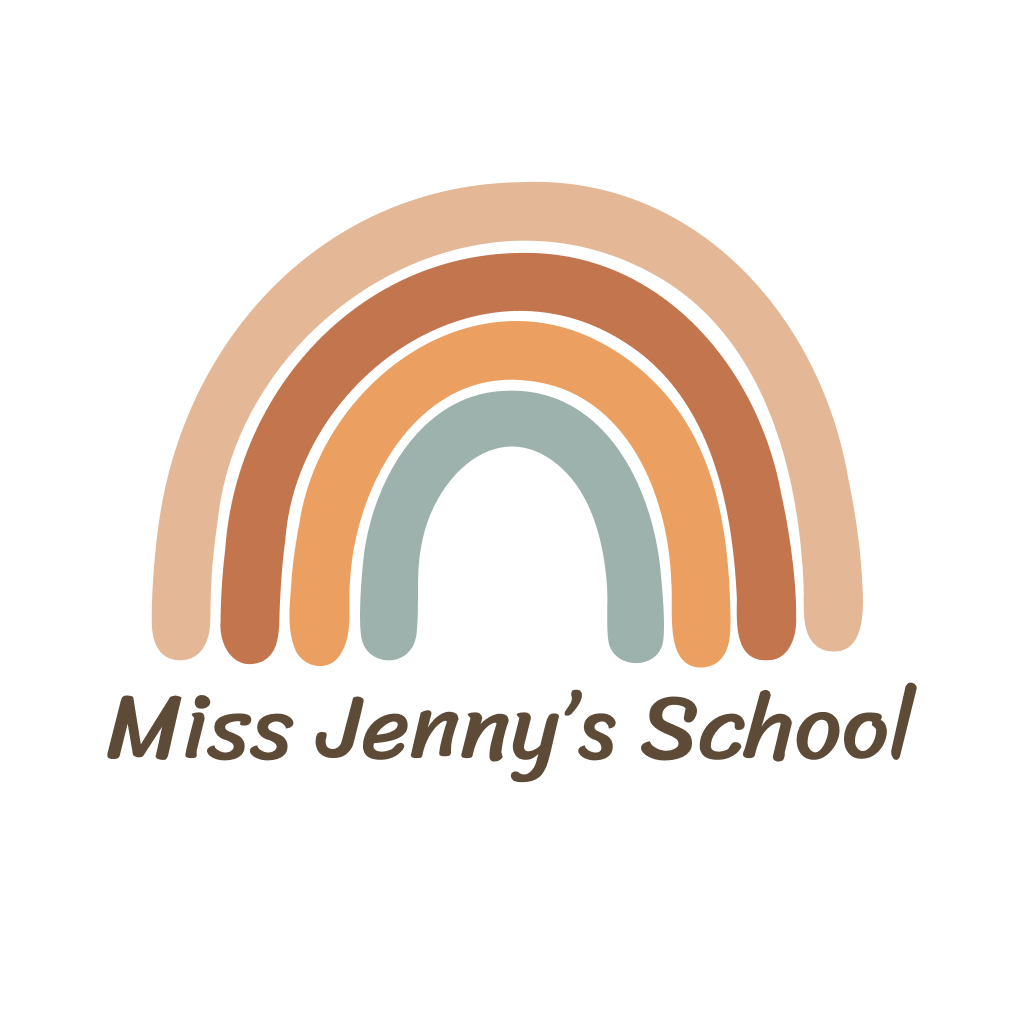
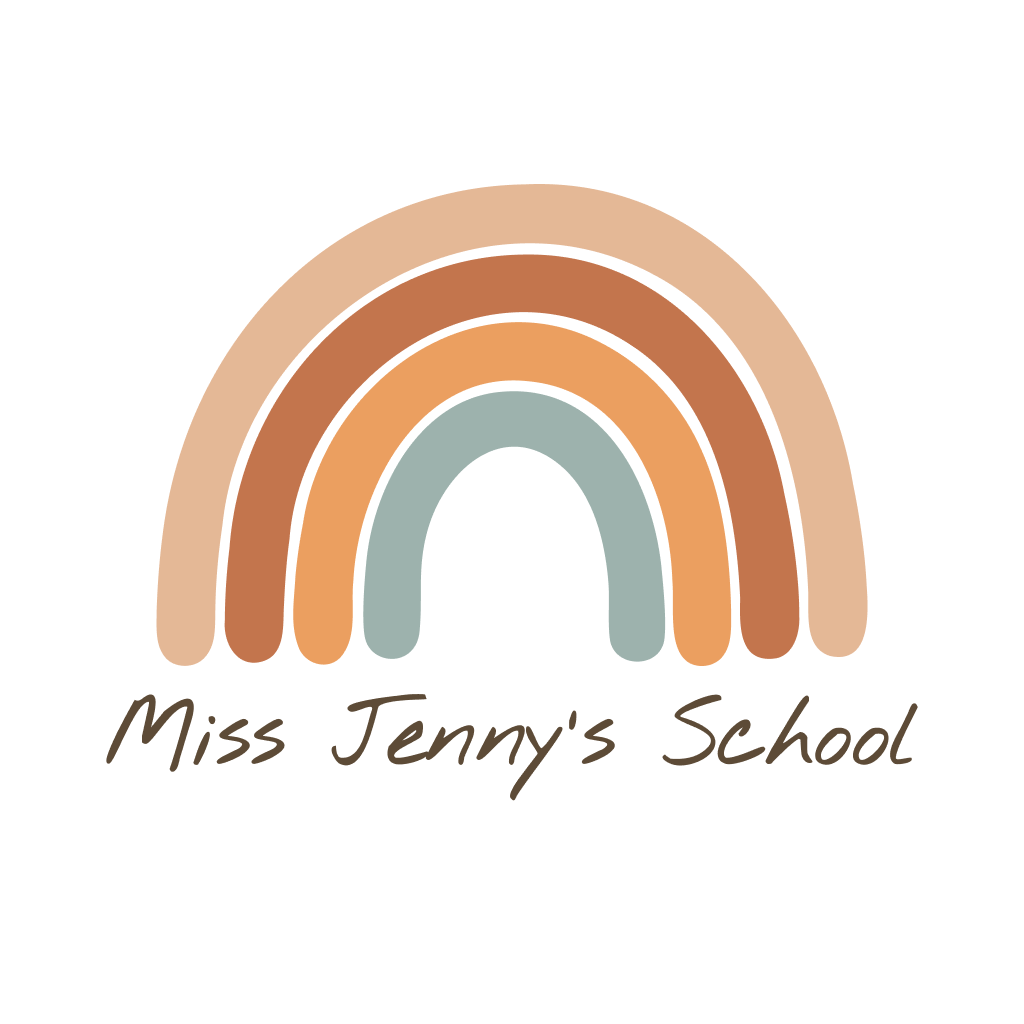
updates

diff --git a/public/css/google-fonts.css b/public/css/google-fonts.css
@@ -1,1 +1,1 @@
-@font-face{font-display:swap;font-family:Atkinson Hyperlegible;font-style:italic;font-weight:400;src:url(/fonts/9Bt43C1KxNDXMspQ1lPyU89-1h6ONRlW45G056IkUwCgblWmLWQ.woff2) format("woff2");unicode-range:u+0100-02ba,u+02bd-02c5,u+02c7-02cc,u+02ce-02d7,u+02dd-02ff,u+0304,u+0308,u+0329,u+1d00-1dbf,u+1e00-1e9f,u+1ef2-1eff,u+2020,u+20a0-20ab,u+20ad-20c0,u+2113,u+2c60-2c7f,u+a720-a7ff}@font-face{font-display:swap;font-family:Atkinson Hyperlegible;font-style:italic;font-weight:400;src:url(/fonts/9Bt43C1KxNDXMspQ1lPyU89-1h6ONRlW45G056IqUwCgblWm.woff2) format("woff2");unicode-range:u+00??,u+0131,u+0152-0153,u+02bb-02bc,u+02c6,u+02da,u+02dc,u+0304,u+0308,u+0329,u+2000-206f,u+20ac,u+2122,u+2191,u+2193,u+2212,u+2215,u+feff,u+fffd}@font-face{font-display:swap;font-family:Atkinson Hyperlegible;font-style:italic;font-weight:700;src:url(/fonts/9Bt93C1KxNDXMspQ1lPyU89-1h6ONRlW45G056qRdhWDTFiMF225Z2k.woff2) format("woff2");unicode-range:u+0100-02ba,u+02bd-02c5,u+02c7-02cc,u+02ce-02d7,u+02dd-02ff,u+0304,u+0308,u+0329,u+1d00-1dbf,u+1e00-1e9f,u+1ef2-1eff,u+2020,u+20a0-20ab,u+20ad-20c0,u+2113,u+2c60-2c7f,u+a720-a7ff}@font-face{font-display:swap;font-family:Atkinson Hyperlegible;font-style:italic;font-weight:700;src:url(/fonts/9Bt93C1KxNDXMspQ1lPyU89-1h6ONRlW45G056qRdhWNTFiMF225.woff2) format("woff2");unicode-range:u+00??,u+0131,u+0152-0153,u+02bb-02bc,u+02c6,u+02da,u+02dc,u+0304,u+0308,u+0329,u+2000-206f,u+20ac,u+2122,u+2191,u+2193,u+2212,u+2215,u+feff,u+fffd}@font-face{font-display:swap;font-family:Atkinson Hyperlegible;font-style:normal;font-weight:400;src:url(/fonts/9Bt23C1KxNDXMspQ1lPyU89-1h6ONRlW45G07JIoWQeCbGWn.woff2) format("woff2");unicode-range:u+0100-02ba,u+02bd-02c5,u+02c7-02cc,u+02ce-02d7,u+02dd-02ff,u+0304,u+0308,u+0329,u+1d00-1dbf,u+1e00-1e9f,u+1ef2-1eff,u+2020,u+20a0-20ab,u+20ad-20c0,u+2113,u+2c60-2c7f,u+a720-a7ff}@font-face{font-display:swap;font-family:Atkinson Hyperlegible;font-style:normal;font-weight:400;src:url(/fonts/9Bt23C1KxNDXMspQ1lPyU89-1h6ONRlW45G04pIoWQeCbA.woff2) format("woff2");unicode-range:u+00??,u+0131,u+0152-0153,u+02bb-02bc,u+02c6,u+02da,u+02dc,u+0304,u+0308,u+0329,u+2000-206f,u+20ac,u+2122,u+2191,u+2193,u+2212,u+2215,u+feff,u+fffd}@font-face{font-display:swap;font-family:Atkinson Hyperlegible;font-style:normal;font-weight:700;src:url(/fonts/9Bt73C1KxNDXMspQ1lPyU89-1h6ONRlW45G8Wbc9eiWPRl-uFV24.woff2) format("woff2");unicode-range:u+0100-02ba,u+02bd-02c5,u+02c7-02cc,u+02ce-02d7,u+02dd-02ff,u+0304,u+0308,u+0329,u+1d00-1dbf,u+1e00-1e9f,u+1ef2-1eff,u+2020,u+20a0-20ab,u+20ad-20c0,u+2113,u+2c60-2c7f,u+a720-a7ff}@font-face{font-display:swap;font-family:Atkinson Hyperlegible;font-style:normal;font-weight:700;src:url(/fonts/9Bt73C1KxNDXMspQ1lPyU89-1h6ONRlW45G8Wbc9dCWPRl-uFQ.woff2) format("woff2");unicode-range:u+00??,u+0131,u+0152-0153,u+02bb-02bc,u+02c6,u+02da,u+02dc,u+0304,u+0308,u+0329,u+2000-206f,u+20ac,u+2122,u+2191,u+2193,u+2212,u+2215,u+feff,u+fffd}@font-face{font-display:swap;font-family:Kiwi Maru;font-style:normal;font-weight:500;src:url(https://fonts.gstatic.com/s/kiwimaru/v19/R70djykGkuuDep-hRg6gbCmEXhP8ZZexnV2a.woff2) format("woff2");unicode-range:u+0100-02ba,u+02bd-02c5,u+02c7-02cc,u+02ce-02d7,u+02dd-02ff,u+0304,u+0308,u+0329,u+1d00-1dbf,u+1e00-1e9f,u+1ef2-1eff,u+2020,u+20a0-20ab,u+20ad-20c0,u+2113,u+2c60-2c7f,u+a720-a7ff}@font-face{font-display:swap;font-family:Kiwi Maru;font-style:normal;font-weight:500;src:url(https://fonts.gstatic.com/s/kiwimaru/v19/R70djykGkuuDep-hRg6gbCmEUBP8ZZexnQ.woff2) format("woff2");unicode-range:u+00??,u+0131,u+0152-0153,u+02bb-02bc,u+02c6,u+02da,u+02dc,u+0304,u+0308,u+0329,u+2000-206f,u+20ac,u+2122,u+2191,u+2193,u+2212,u+2215,u+feff,u+fffd}
+@font-face{font-display:swap;font-family:Atkinson Hyperlegible;font-style:italic;font-weight:400;src:url(/fonts/9Bt43C1KxNDXMspQ1lPyU89-1h6ONRlW45G056IkUwCgblWmLWQ.woff2) format("woff2");unicode-range:u+0100-02ba,u+02bd-02c5,u+02c7-02cc,u+02ce-02d7,u+02dd-02ff,u+0304,u+0308,u+0329,u+1d00-1dbf,u+1e00-1e9f,u+1ef2-1eff,u+2020,u+20a0-20ab,u+20ad-20c0,u+2113,u+2c60-2c7f,u+a720-a7ff}@font-face{font-display:swap;font-family:Atkinson Hyperlegible;font-style:italic;font-weight:400;src:url(/fonts/9Bt43C1KxNDXMspQ1lPyU89-1h6ONRlW45G056IqUwCgblWm.woff2) format("woff2");unicode-range:u+00??,u+0131,u+0152-0153,u+02bb-02bc,u+02c6,u+02da,u+02dc,u+0304,u+0308,u+0329,u+2000-206f,u+20ac,u+2122,u+2191,u+2193,u+2212,u+2215,u+feff,u+fffd}@font-face{font-display:swap;font-family:Atkinson Hyperlegible;font-style:italic;font-weight:700;src:url(/fonts/9Bt93C1KxNDXMspQ1lPyU89-1h6ONRlW45G056qRdhWDTFiMF225Z2k.woff2) format("woff2");unicode-range:u+0100-02ba,u+02bd-02c5,u+02c7-02cc,u+02ce-02d7,u+02dd-02ff,u+0304,u+0308,u+0329,u+1d00-1dbf,u+1e00-1e9f,u+1ef2-1eff,u+2020,u+20a0-20ab,u+20ad-20c0,u+2113,u+2c60-2c7f,u+a720-a7ff}@font-face{font-display:swap;font-family:Atkinson Hyperlegible;font-style:italic;font-weight:700;src:url(/fonts/9Bt93C1KxNDXMspQ1lPyU89-1h6ONRlW45G056qRdhWNTFiMF225.woff2) format("woff2");unicode-range:u+00??,u+0131,u+0152-0153,u+02bb-02bc,u+02c6,u+02da,u+02dc,u+0304,u+0308,u+0329,u+2000-206f,u+20ac,u+2122,u+2191,u+2193,u+2212,u+2215,u+feff,u+fffd}@font-face{font-display:swap;font-family:Atkinson Hyperlegible;font-style:normal;font-weight:400;src:url(/fonts/9Bt23C1KxNDXMspQ1lPyU89-1h6ONRlW45G07JIoWQeCbGWn.woff2) format("woff2");unicode-range:u+0100-02ba,u+02bd-02c5,u+02c7-02cc,u+02ce-02d7,u+02dd-02ff,u+0304,u+0308,u+0329,u+1d00-1dbf,u+1e00-1e9f,u+1ef2-1eff,u+2020,u+20a0-20ab,u+20ad-20c0,u+2113,u+2c60-2c7f,u+a720-a7ff}@font-face{font-display:swap;font-family:Atkinson Hyperlegible;font-style:normal;font-weight:400;src:url(/fonts/9Bt23C1KxNDXMspQ1lPyU89-1h6ONRlW45G04pIoWQeCbA.woff2) format("woff2");unicode-range:u+00??,u+0131,u+0152-0153,u+02bb-02bc,u+02c6,u+02da,u+02dc,u+0304,u+0308,u+0329,u+2000-206f,u+20ac,u+2122,u+2191,u+2193,u+2212,u+2215,u+feff,u+fffd}@font-face{font-display:swap;font-family:Atkinson Hyperlegible;font-style:normal;font-weight:700;src:url(/fonts/9Bt73C1KxNDXMspQ1lPyU89-1h6ONRlW45G8Wbc9eiWPRl-uFV24.woff2) format("woff2");unicode-range:u+0100-02ba,u+02bd-02c5,u+02c7-02cc,u+02ce-02d7,u+02dd-02ff,u+0304,u+0308,u+0329,u+1d00-1dbf,u+1e00-1e9f,u+1ef2-1eff,u+2020,u+20a0-20ab,u+20ad-20c0,u+2113,u+2c60-2c7f,u+a720-a7ff}@font-face{font-display:swap;font-family:Atkinson Hyperlegible;font-style:normal;font-weight:700;src:url(/fonts/9Bt73C1KxNDXMspQ1lPyU89-1h6ONRlW45G8Wbc9dCWPRl-uFQ.woff2) format("woff2");unicode-range:u+00??,u+0131,u+0152-0153,u+02bb-02bc,u+02c6,u+02da,u+02dc,u+0304,u+0308,u+0329,u+2000-206f,u+20ac,u+2122,u+2191,u+2193,u+2212,u+2215,u+feff,u+fffd}@font-face{font-display:swap;font-family:Kiwi Maru;font-style:normal;font-weight:500;src:url(https://fonts.gstatic.com/s/kiwimaru/v19/R70djykGkuuDep-hRg6gbCmEXhP8ZZexnV2a.woff2) format("woff2");unicode-range:u+0100-02ba,u+02bd-02c5,u+02c7-02cc,u+02ce-02d7,u+02dd-02ff,u+0304,u+0308,u+0329,u+1d00-1dbf,u+1e00-1e9f,u+1ef2-1eff,u+2020,u+20a0-20ab,u+20ad-20c0,u+2113,u+2c60-2c7f,u+a720-a7ff}@font-face{font-display:swap;font-family:Kiwi Maru;font-style:normal;font-weight:500;src:url(https://fonts.gstatic.com/s/kiwimaru/v19/R70djykGkuuDep-hRg6gbCmEUBP8ZZexnQ.woff2) format("woff2");unicode-range:u+00??,u+0131,u+0152-0153,u+02bb-02bc,u+02c6,u+02da,u+02dc,u+0304,u+0308,u+0329,u+2000-206f,u+20ac,u+2122,u+2191,u+2193,u+2212,u+2215,u+feff,u+fffd}@font-face{font-display:swap;font-family:Nothing You Could Do;font-style:normal;font-weight:400;src:url(/fonts/oY1B8fbBpaP5OX3DtrRYf_Q2BPB1SnfZb3OOnVsH2pmp.woff2) format("woff2");unicode-range:u+00??,u+0131,u+0152-0153,u+02bb-02bc,u+02c6,u+02da,u+02dc,u+0304,u+0308,u+0329,u+2000-206f,u+20ac,u+2122,u+2191,u+2193,u+2212,u+2215,u+feff,u+fffd}

diff --git a/src/css/styles.css b/src/css/styles.css
@@ -30,6 +30,7 @@
   /* Fonts */
   --font-sans: "Atkinson Hyperlegible", sans-serif;
   --font-serif: "Kiwi Maru", serif;
+  --font-hand: "Nothing You Could Do", cursive;
 
   /* Typescale */
   --text-p: 1.0625rem;
@@ -53,6 +54,9 @@
   --text-h4: clamp(var(--text-h4-min), 2.153vw, var(--text-h4-max));
   --text-h5: clamp(var(--text-h5-min), 1.736vw, var(--text-h5-max));
   --text-h6: clamp(var(--text-h6-min), 1.388vw, var(--text-h6-max));
+
+  /* A bit rough, but it works */
+  --text-h1-lg-hand: clamp(3rem, 5vw, 5rem);
 
   /* Breakpoints */
   --breakpoint-xsm: 30rem;
@@ -113,10 +117,10 @@
       items-center
       justify-between
       w-full
-      max-sm:text-cream
+      max-sm:text-coffee
       max-sm:fixed
       max-sm:inset-0
-      max-sm:bg-slate
+      max-sm:bg-white
       max-sm:z-10
       max-sm:flex-col
       max-sm:justify-center
@@ -171,7 +175,14 @@
 
   /* Text Rotator */
   .rotator {
-    @apply flex items-center justify-center w-full text-h1-lg text-white;
+    @apply flex
+      items-center
+      justify-center
+      w-full
+      text-h1-lg
+      text-white
+      font-hand
+      font-normal;
   }
 
   .rotator-mask {
@@ -185,13 +196,13 @@
       whitespace-nowrap
       transition-[width]
       duration-300
+      border-b-2
+      border-white
       motion-reduce:transition-none;
   }
 
   .rotator-item {
-    @apply font-bold
-      italic
-      text-left
+    @apply text-left
       px-4
       xsm:pl-6
       transition-all
@@ -213,6 +224,17 @@
 
   .rotator-item-staged-exit {
     @apply -translate-y-[20px] opacity-0;
+  }
+
+  .rotator-item-clone {
+    @apply text-left
+      px-4
+      xsm:pl-6
+      absolute
+      top-0
+      left-0
+      invisible
+      pointer-events-none;
   }
 
   /* Used for embeds: src/_includes/templates/embed.liquid */
@@ -291,7 +313,7 @@
 
 @layer utilities {
   .shadow-text {
-    text-shadow: 0 4px 8px var(--color-coffee);
+    text-shadow: 0 0px 10px #555;
   }
 
   .section-padding {

diff --git a/src/js/lib/rotator.js b/src/js/lib/rotator.js
@@ -1,17 +1,21 @@
 import { getLifecycle } from "../util/lifecycle";
 import { getTransitionDuration } from "../util/styles";
-import { getIntersectionObserver } from "../util/observer";
+import { getResizeObserver, getIntersectionObserver } from "../util/observer";
 
 (() => {
   const rotator = document.getElementById("rotator");
   const rotatorMask = document.getElementById("rotator-mask");
+  const rotatorClone = document.getElementById("rotator-clone");
   const items = rotator?.querySelectorAll(".rotator-item");
-
   const { startInterval, stopInterval, updateIndex } = getLifecycle({
     cycleLength: items.length,
     cycleInterval: 4000,
     onNewCycle: changeText,
   });
+
+  function setCloneText(item) {
+    rotatorClone.textContent = item.textContent.trim();
+  }
 
   function setMaskWidth(item) {
     rotatorMask.style.setProperty(
@@ -32,6 +36,7 @@ import { getIntersectionObserver } from "../util/observer";
     inItem.classList.add("rotator-item-staged-enter");
     inItem.setAttribute("aria-hidden", "false");
     setMaskWidth(inItem);
+    setCloneText(inItem);
 
     setTimeout(() => {
       inItem.classList.add("rotator-item-current");
@@ -50,11 +55,21 @@ import { getIntersectionObserver } from "../util/observer";
   function init() {
     let initialized = false;
 
+    getResizeObserver({
+      element: rotator,
+      onResize: () => {
+        if (initialized) {
+          setMaskWidth(rotatorClone);
+        }
+      },
+    });
+
     getIntersectionObserver({
       element: rotator,
       onIntersect: () => {
         if (!initialized) {
           initialized = true;
+          setCloneText(items[0]);
           setMaskWidth(items[0]);
           startInterval();
         } else {
@@ -63,8 +78,6 @@ import { getIntersectionObserver } from "../util/observer";
       },
       onUnintersect: stopInterval,
     });
-
-    // TODO: Add a resize observer to update the mask width
   }
 
   if (rotator) {

diff --git a/src/js/lib/navi.js b/src/js/lib/navi.js
@@ -13,7 +13,6 @@ import { getPropertyValue, getTransitionDuration } from "../util/styles";
 
   function openNavi() {
     naviControl.setAttribute("aria-expanded", "true");
-    navi.classList.add("max-sm:text-cream");
     naviArrow.classList.add("rotate-180");
     naviMenu.classList.add(...animClasses);
     setTimeout(() => {
@@ -28,7 +27,6 @@ import { getPropertyValue, getTransitionDuration } from "../util/styles";
       : [...showClasses, ...animClasses];
 
     naviControl.setAttribute("aria-expanded", "false");
-    navi.classList.remove("max-sm:text-cream");
     naviArrow.classList.remove("rotate-180");
     naviMenu.classList.remove(...removeClasses);
     naviMenu.classList.add(...hideClasses);

diff --git a/src/js/util/observer.js b/src/js/util/observer.js
@@ -15,3 +15,13 @@ export const getIntersectionObserver = ({
   observer.observe(element);
   return observer;
 };
+
+export const getResizeObserver = ({ element, onResize = () => {} }) => {
+  const observer = new ResizeObserver((entries) => {
+    entries.forEach((entry) => {
+      onResize(entry);
+    });
+  });
+  observer.observe(element);
+  return observer;
+};

diff --git a/src/js/util/lifecycle.js b/src/js/util/lifecycle.js
@@ -24,8 +24,8 @@ export const getLifecycle = ({
   }
 
   return {
-    startInterval,
-    stopInterval,
     updateIndex,
+    stopInterval,
+    startInterval,
   };
 };
